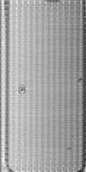
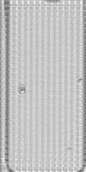
Testing code

diff --git a/train_test.py b/train_test.py
@@ -1,0 +1,61 @@
+import sys
+import csv
+from sklearn import svm
+from pybrain.tools.shortcuts import buildNetwork
+from pybrain.datasets import SupervisedDataSet
+from pybrain.datasets import ClassificationDataSet
+from pybrain.structure.modules import SoftmaxLayer
+from pybrain.supervised.trainers import BackpropTrainer
+
+def getFeaturesFromFile(filename):
+	X = []
+	y = []
+	dataCSV = open(filename)
+	reader = csv.reader(dataCSV)
+	for row in reader:
+		X.append([float(i) for i in row[0:-1]])
+		y.append(int(row[-1]))
+	return X,y
+
+ds = ClassificationDataSet(1600, 1, nb_classes=3)
+net = buildNetwork(ds.indim, 16, ds.outdim, outclass=SoftmaxLayer)
+# clf = svm.LinearSVC()
+if len(sys.argv) < 3:
+    print "please specify filenames for training and testing"
+    sys.exit()
+train_filename = sys.argv[1]
+test_filename = sys.argv[2]
+print "Getting training features from " + train_filename
+X,y = getFeaturesFromFile(train_filename)
+print "Fitting to features"
+for i in range(len(y)):
+	ds.addSample(X[i], [y[i]])
+
+ds._convertToOneOfMany
+
+# clf.fit(X,y)
+trainer = BackpropTrainer(net, dataset=ds, momentum=0.1,
+                              verbose=True, weightdecay=0.01)
+for i in range(100):
+	print trainer.train()
+
+print "Getting testing features from " + test_filename
+X,y = getFeaturesFromFile(train_filename)
+
+# print "Running prediction"
+# prediction = clf.predict(X)
+prediction = []
+for i in range(len(y)):
+	guess = net.activate(X[i])
+	prediction.append(guess)
+
+numCorrect = [0]*3
+numTotal = [0]*3
+for i in range(len(y)):
+	print y[i], prediction[i]
+	numTotal[y[i]] += 1
+	if y[i] == prediction[i]:
+		numCorrect[y[i]] += 1
+print "Number correct: " + str(numCorrect) + " out of " + str(numTotal)
+print "Percentage: " + str(float(numCorrect[0])/numTotal[0]) + ", " + str(float(numCorrect[1])/numTotal[1]) + ", " + str(float(numCorrect[2])/numTotal[2])
+print "Total percentage: " + str(float(sum(numCorrect))/sum(numTotal))

diff --git a/fft_test.py b/fft_test.py
@@ -9,14 +9,16 @@ def convert8Bit(arr):
     result = np.round(arr / maxVal * 255)
     return result
 
-im = Image.open('11.tiff')
+im = Image.open('11.png')
 im_arr = np.array(im)
 freq = np.fft.fft2(im_arr)
 freq = np.fft.fftshift(freq)
 freq_abs = np.abs(freq)
 scaled = convert8Bit(freq_abs)
-# res = Image.fromarray(scaled)
-# res.save('freq_shift.tiff')
+res = Image.fromarray(scaled)
+if res.mode != 'RGB':
+    res = res.convert('RGB')
+res.save('freq_shift.png')
 
 #should probably not have this hard-coded
 radius = 86 / 6 * 0.9
@@ -34,9 +36,11 @@ for x in range(86):
                     freq[y, x] = freq[y,x] * (margin - (dist-radius)) / margin
             #     freq[y,x] = 0
 
-# scaled = convert8Bit(freq)
-# res = Image.fromarray(scaled)
-# res.save('freq_masked.tiff')
+scaled = convert8Bit(np.abs(freq))
+res = Image.fromarray(scaled)
+if res.mode != 'RGB':
+    res = res.convert('RGB')
+res.save('freq_masked.png')
 freq = np.fft.fftshift(freq)
 
 image = np.fft.ifft2(freq)
